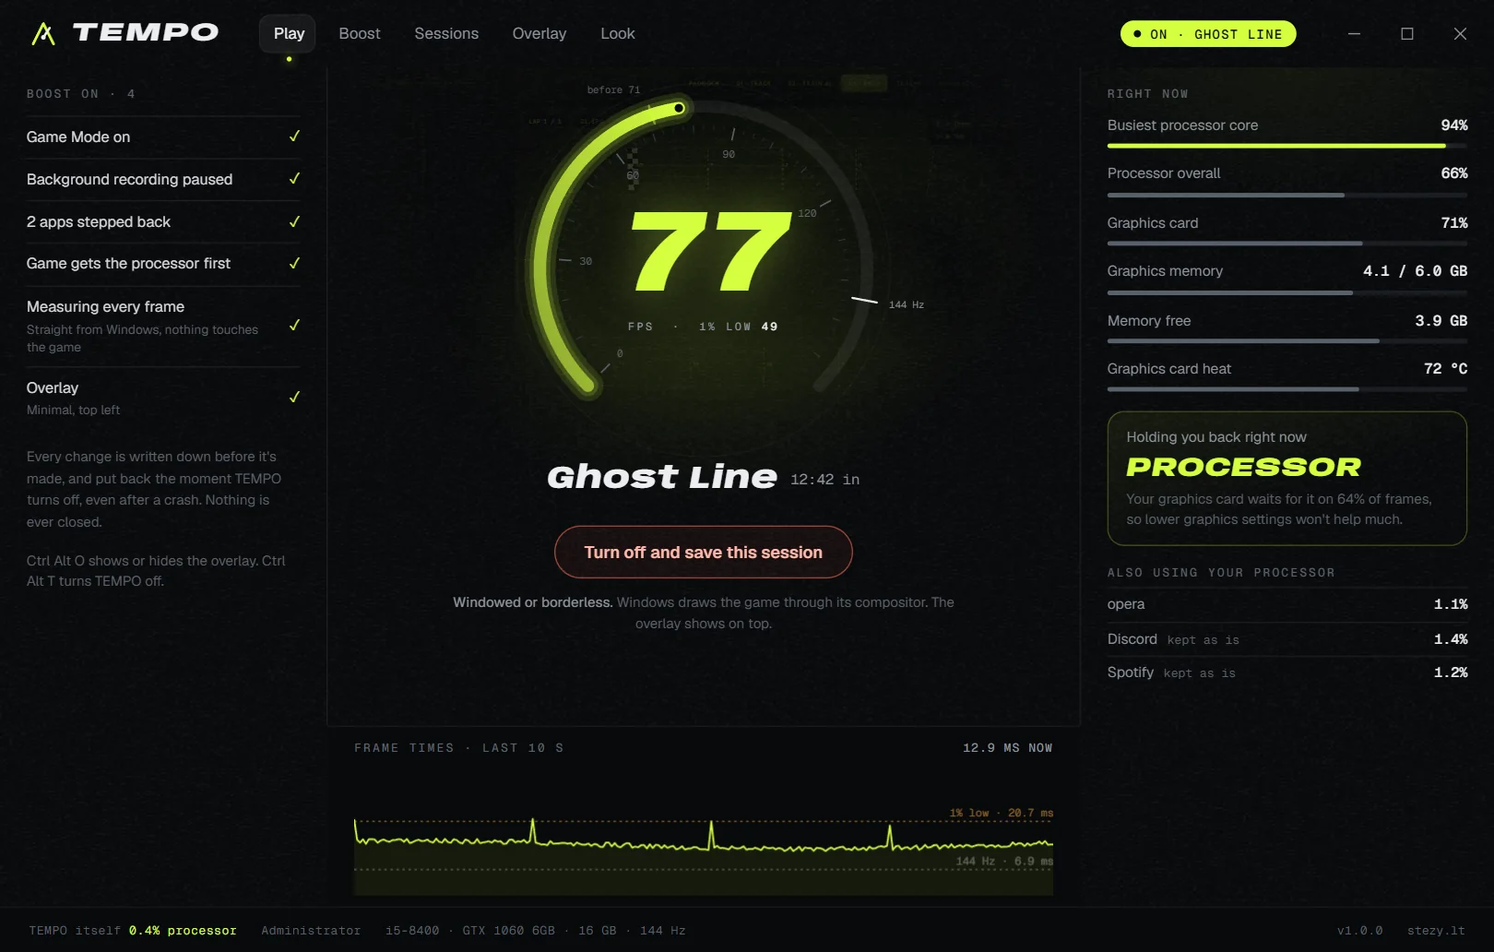
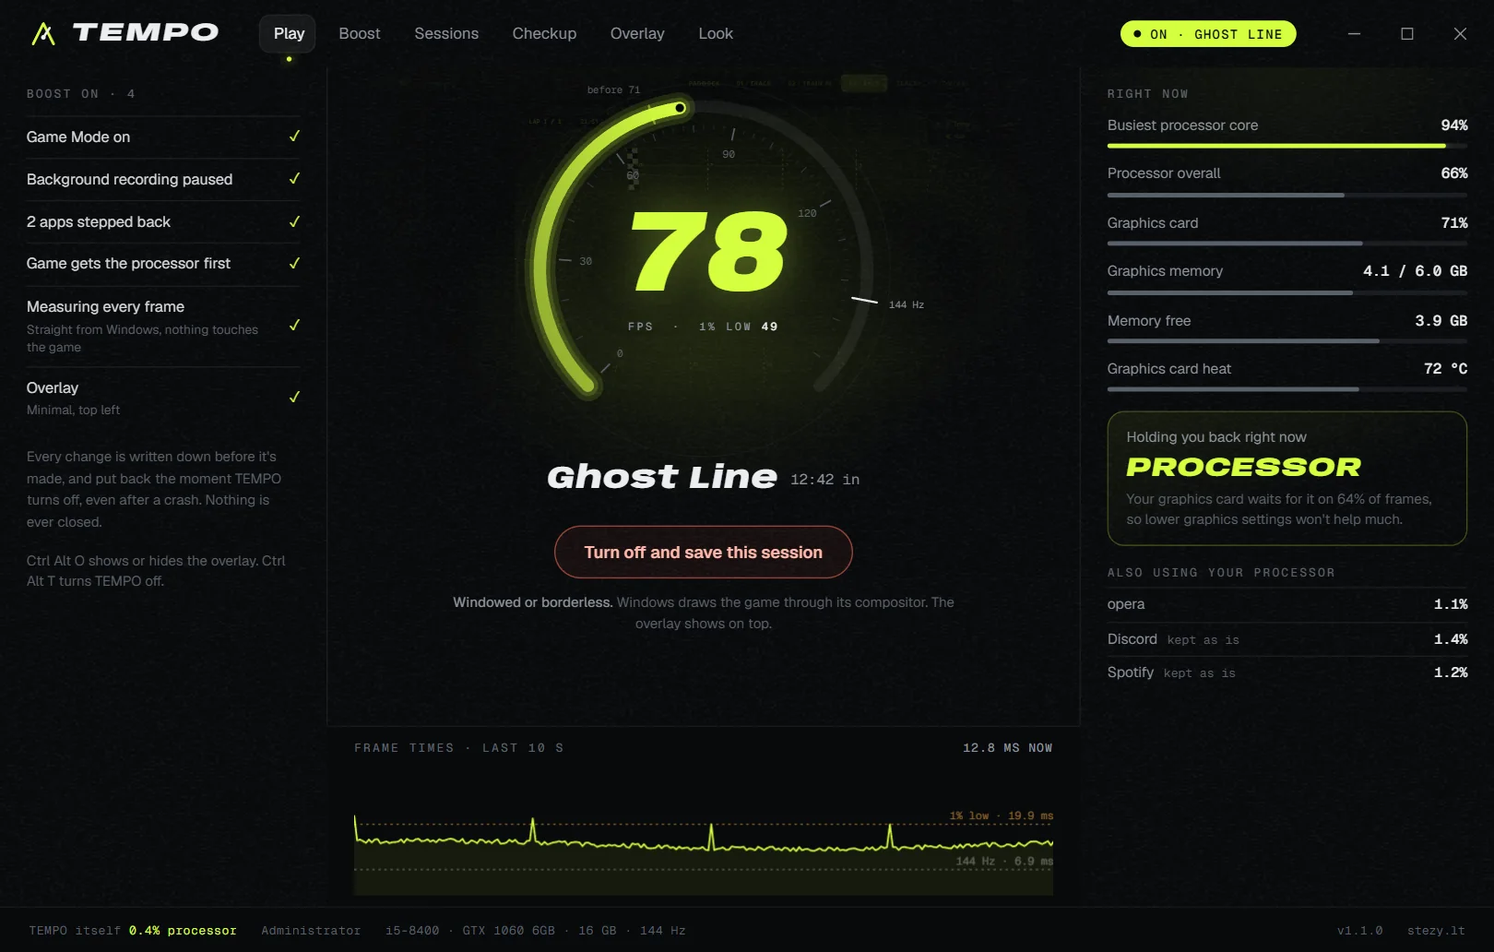
TEMPO 1.1 on the site: new download, Checkup screenshot, updated steps and demo

diff --git a/prototype/play/tempo/app.js b/prototype/play/tempo/app.js
@@ -185,7 +185,8 @@
     S.page = page;
     body.dataset.page = page;
     document.querySelectorAll('.nav button').forEach(b => b.classList.toggle('on', b.dataset.go === page));
-    for (const p of ['play', 'boost', 'sessions', 'overlay', 'look']) $('page-' + p).hidden = p !== page;
+    for (const p of ['play', 'boost', 'sessions', 'checkup', 'overlay', 'look']) $('page-' + p).hidden = p !== page;
+    if (page === 'checkup') { renderCheckup(); send({ t: 'checkup' }); }
     movePill();
     if (page === 'boost') { renderBoost(); send({ t: 'apps' }); }
     if (page === 'sessions') renderSessions();
@@ -270,6 +271,8 @@
     $('left-off').hidden = st !== 'off';
     $('left-on').hidden = st === 'off';
     $('learn').hidden = st !== 'off' || !boostCount();
+    $('play').hidden = st !== 'off' || !(g && g.canLaunch);
+    if (g && g.canLaunch) $('play').innerHTML = `<svg width="10" height="12" viewBox="0 0 10 12" aria-hidden="true"><path d="M0 0L10 6L0 12Z" fill="currentColor"/></svg>Turn on and open ${esc(g.name)}`;
     const applied = S.st.applied || [];
     $('applied-lab').textContent = S.st.learn ? 'Measuring only' : applied.length ? `Boost on · ${applied.length}` : 'Boost on';
     $('applied').innerHTML = S.st.learn
@@ -296,6 +299,8 @@
   });
   $('power').addEventListener('click', () => send({ t: 'on', game: S.settings.selectedGame || 'any' }));
   $('learn').addEventListener('click', () => send({ t: 'on', game: S.settings.selectedGame || 'any', learn: true }));
+  $('play').addEventListener('click', () => send({ t: 'on', game: S.settings.selectedGame || 'any', launch: true }));
+  $('update').addEventListener('click', () => send({ t: 'open', url: $('update').dataset.url }));
   $('stop').addEventListener('click', () => send({ t: 'off' }));
 
   function blockedText(g) {
@@ -353,14 +358,14 @@
     box.innerHTML = `
       <div class="lab">Last session <b>${when(s.started)} · ${dur(s.seconds)}</b></div>
       <div class="avg"><span class="n">${fmt(s.avgFps)}</span><span class="u">FPS AVERAGE</span>${delta != null ? `<span class="delta${delta < 0 ? ' neg' : ''}">${delta >= 0 ? '+' : ''}${delta} vs before</span>` : ''}</div>
-      <div class="trio"><div><div class="k">1% LOW</div><div class="v">${fmt(s.low1)}</div></div><div><div class="k">0.1% LOW</div><div class="v">${fmt(s.low01)}</div></div><div><div class="k">FRAME</div><div class="v">${fmt(s.avgFrameMs, 1)}<small>ms</small></div></div></div>
+      <div class="trio"><div><div class="k">1% LOW</div><div class="v">${fmt(s.low1)}</div></div><div><div class="k">0.1% LOW</div><div class="v">${fmt(s.low01)}</div></div><div><div class="k">STUTTERS</div><div class="v">${s.hitches != null ? s.hitches : '–'}${s.hitches != null ? `<small>${fmt(s.hitchesPerMin, 1)}/min</small>` : ''}</div></div></div>
       <canvas class="chart" id="last-chart"></canvas>
       <div class="axis"><span>0</span><span>${dur(s.seconds / 2)}</span><span>${dur(s.seconds)}</span></div>
       <div class="lab" style="margin-bottom:0">What held you back</div>
       ${lbar(s)}
       ${compareHtml(g && g.id)}
       ${tips(s).slice(0, 2).map(t => `<p class="facts" style="margin-bottom:8px">${t}</p>`).join('')}`;
-    drawSeries($('last-chart'), s.series, prev && prev.series);
+    drawSeries($('last-chart'), s.series, prev && prev.series, s);
   }
 
   // boosted sessions against plain ones for the same game, weighted by how long each was played
@@ -381,13 +386,27 @@
       <p class="note" style="margin-top:6px">${c.n1} boosted and ${c.n0} plain session${c.n0 === 1 ? '' : 's'}. Matches differ, so this gets more reliable the more you play.</p></div>`;
   }
 
-  function drawSeries(c, series, before) {
+  // Fullscreen fast path against windowed or borderless, from the user's own sessions of this game
+  function modeCompareHtml(gameId) {
+    const list = sessionsOf(gameId);
+    const fast = list.filter(s => /^Hardware: /.test(s.presentMode || '')), comp = list.filter(s => /Composed/.test(s.presentMode || ''));
+    if (!fast.length || !comp.length) return '';
+    const w = (arr, k) => arr.reduce((a, s) => a + s[k] * s.seconds, 0) / Math.max(1, arr.reduce((a, s) => a + s.seconds, 0));
+    const d = w(comp, 'avgFps') - w(fast, 'avgFps'), dl = w(comp, 'low1') - w(fast, 'low1');
+    const sign = v => (v >= 0 ? '+' : '') + v.toFixed(1);
+    return `<div class="cmp"><div class="lab" style="margin:0 0 6px">Borderless against fullscreen</div>
+      <div class="cmp-row"><span><b>${sign(d)}</b> fps average</span><span><b>${sign(dl)}</b> at the 1% lows</span></div>
+      <p class="note" style="margin-top:6px">${comp.length} windowed or borderless and ${fast.length} fullscreen session${fast.length === 1 ? '' : 's'}. Near zero means borderless costs you nothing, and the fps counter can sit on top.</p></div>`;
+  }
+
+  function drawSeries(c, series, before, sess) {
     if (!c || !series || series.length < 2) return;
+    const low = sess && sess.seriesLow && sess.seriesLow.length === series.length ? sess.seriesLow : null;
     const dpr = window.devicePixelRatio || 1, w = c.clientWidth, h = c.clientHeight;
     c.width = w * dpr; c.height = h * dpr;
     const g = c.getContext('2d');
     g.scale(dpr, dpr);
-    const all = series.concat(before || []);
+    const all = series.concat(before || []).concat(low || []);
     const lo = Math.max(0, Math.min(...all) * 0.85), hi = Math.max(...all) * 1.08;
     const y = v => h - 3 - (v - lo) / (hi - lo || 1) * (h - 8);
     const line = (arr, color, width, dash, fill) => {
@@ -399,7 +418,17 @@
     };
     const rgb = getComputedStyle(document.documentElement).getPropertyValue('--acc-rgb');
     if (before && before.length > 1) line(before, '#3A4048', 1.3, [3, 2]);
+    if (low) line(low, `rgba(${rgb}, .32)`, 1, null);
     line(series, S.settings.accent, 1.6, null, `rgba(${rgb}, .08)`);
+    // the worst stutters, as small marks along the bottom
+    if (sess && sess.worstHitches && sess.seconds) {
+      g.setLineDash([]);
+      g.fillStyle = '#FFB547';
+      for (const ht of sess.worstHitches) {
+        const x = Math.min(w - 2, Math.max(2, ht.t / sess.seconds * w));
+        g.beginPath(); g.moveTo(x, h - 0); g.lineTo(x - 3.5, h - 6); g.lineTo(x + 3.5, h - 6); g.closePath(); g.fill();
+      }
+    }
   }
 
   // ------------------------------------------------------------------ live
@@ -517,17 +546,19 @@
         <div><div class="k">AVERAGE</div><div class="v">${fmt(s.avgFps)}<small>fps</small></div></div>
         <div><div class="k">1% LOW</div><div class="v">${fmt(s.low1)}<small>fps</small></div></div>
         <div><div class="k">0.1% LOW</div><div class="v">${fmt(s.low01)}<small>fps</small></div></div>
-        <div><div class="k">FRAME TIME</div><div class="v">${fmt(s.avgFrameMs, 1)}<small>ms</small></div></div>
+        <div><div class="k">STUTTERS</div><div class="v">${s.hitches != null ? s.hitches : '–'}<small>${s.hitches != null ? fmt(s.hitchesPerMin, 1) + '/min' : ''}</small></div></div>
       </div>
       <canvas class="sd-chart" id="sd-chart"></canvas>
       <div class="axis"><span>0</span><span>${dur(s.seconds / 2)}</span><span>${dur(s.seconds)}</span></div>
-      ${prev ? `<p class="facts" style="margin-bottom:12px">Dashed line: the session before (${fmt(prev.avgFps)} fps average).</p>` : ''}
+      <p class="facts" style="margin-bottom:12px">${s.seriesLow ? 'The faint line is the slowest moment of each stretch, the dips you feel.' : ''}${s.worstHitches && s.worstHitches.length ? ' Orange marks are the worst stutters.' : ''}${prev ? ` Dashed: the session before (${fmt(prev.avgFps)} fps average).` : ''}</p>
+      ${s.worstHitches && s.worstHitches.length ? `<div class="lab" style="margin-bottom:6px">Worst stutters</div><div class="hitches">${s.worstHitches.map(h => `<span><b>${Math.round(h.ms)} ms</b> at ${Math.floor(h.t / 60)}:${String(Math.floor(h.t % 60)).padStart(2, '0')}</span>`).join('')}</div>` : ''}
       <div class="lab" style="margin-bottom:0">What held you back</div>
       ${lbar(s)}
       <div class="sd-cols">
         <div>
           ${s.changes && s.changes.length ? `<div class="lab">The boost this session</div>${s.changes.map(c => `<p class="facts">&#10003; ${esc(c)}</p>`).join('')}<div style="height:16px"></div>` : `<div class="lab">The boost this session</div><p class="facts" style="margin-bottom:16px">Off. A plain session, useful as a baseline.</p>`}
           ${compareHtml(s.gameId)}
+          ${modeCompareHtml(s.gameId)}
           <div class="lab">Worth knowing</div>
           ${tips(s).map(t => `<p class="facts" style="margin-bottom:9px">${t}</p>`).join('') || '<p class="facts">Nothing stood out. A clean session.</p>'}
           ${mo ? `<p class="facts" style="margin-top:6px"><b>${mo[1]}.</b> ${mo[2]}</p>` : ''}
@@ -542,7 +573,7 @@
           ${s.background && s.background.length ? `<div class="lab" style="margin-top:16px">Other apps using the processor</div><div class="bg-apps" style="margin-top:0">` + s.background.map(b => `<div class="row${(S.settings.protectedApps || []).some(p => p.toLowerCase() === b.name.toLowerCase()) ? ' kept' : ''}"><span>${esc(b.name.replace(/\.exe$/i, ''))}</span><b>${fmt(b.cpu, 1)}%</b></div>`).join('') + '</div>' : ''}
         </div>
       </div>`;
-    drawSeries($('sd-chart'), s.series, prev && prev.series);
+    drawSeries($('sd-chart'), s.series, prev && prev.series, s);
     $('sd-del').addEventListener('click', () => {
       if ($('sd-del').dataset.armed) { send({ t: 'deleteSession', game: s.gameId, id: s.id }); return; }
       $('sd-del').dataset.armed = '1';
@@ -586,6 +617,26 @@
     r.addEventListener('input', () => { paintRange(r); S.settings[r.dataset.set] = r.value / (+r.dataset.scale || 1); if (r.dataset.set === 'grain') applyTheme(); if (S.page === 'overlay') renderOverlaySample(); });
     r.addEventListener('change', () => set(r.dataset.set, r.value / (+r.dataset.scale || 1)));
   });
+
+  // checkup page: the PC's own findings plus what the sessions showed
+  function renderCheckup() {
+    if (S.page !== 'checkup') return;
+    const items = (S.checkup || []).slice();
+    const last = S.sessions[0];
+    if (last) {
+      if (last.maxGpuTemp >= 83) items.push({ level: 'tip', title: `Your graphics card reached ${fmt(last.maxGpuTemp)} °C in ${esc(last.gameName)}`, text: 'Most cards slow themselves down above about 83 °C. Dust in the fans or a slow fan curve are the usual reasons.' });
+      else if (last.maxGpuTemp > 0) items.push({ level: 'ok', title: `Graphics card heat: ${fmt(last.maxGpuTemp)} °C at the peak`, text: `Cool enough in your last ${esc(last.gameName)} session.` });
+      if (last.vramTotalGb > 0 && last.avgVramGb / last.vramTotalGb > 0.9) items.push({ level: 'tip', title: 'Graphics memory was nearly full', text: `${fmt(last.avgVramGb, 1)} of ${fmt(last.vramTotalGb, 0)} GB on average. Lower texture quality is the setting that frees it, and stops the stutters a full card causes.` });
+      if (last.hitchesPerMin >= 2) items.push({ level: 'tip', title: `${fmt(last.hitchesPerMin, 1)} stutters a minute in ${esc(last.gameName)}`, text: 'Stutters usually come from loading (a slow or full drive), memory running out, or shaders compiling the first time you see something. They often settle after a few matches.' });
+    } else items.push({ level: 'info', title: 'Play a session with TEMPO on', text: 'Heat, memory and stutters from your games show up here too.' });
+    const st = S.boostStatus || {};
+    if (st.gameMode === false) items.push({ level: 'info', title: 'Windows Game Mode is off', text: "TEMPO's boost turns it on while you play and back off afterwards." });
+    const order = { warn: 0, tip: 1, info: 2, ok: 3 };
+    items.sort((a, b) => order[a.level] - order[b.level]);
+    const icon = l => l === 'ok' ? '&#10003;' : l === 'warn' ? '!' : l === 'tip' ? '&#8599;' : 'i';
+    $('ckp-list').innerHTML = S.checkup == null ? '<p class="note">Looking at your PC…</p>' : items.map(f =>
+      `<div class="find ${f.level}"><span class="ic">${icon(f.level)}</span><div><div class="t">${f.title}</div><p>${f.text}</p></div></div>`).join('');
+  }
 
   // boost page
   function renderBoost() {
@@ -744,6 +795,8 @@
       case 'games': S.games = m.games; if (m.select) S.settings.selectedGame = m.select; renderPlay(); break;
       case 'settings': S.settings = m.settings; applyTheme(); syncControls(); renderPlay(); if (S.page === 'overlay') renderOverlaySample(); break;
       case 'toast': toast(m.text); break;
+      case 'checkup': S.checkup = (m.findings || []).map(f => ({ level: f.level, title: esc(f.title), text: esc(f.text) })); S.boostStatus = m.boostStatus || S.boostStatus; renderCheckup(); break;
+      case 'update': { const u = $('update'); u.hidden = false; u.dataset.url = m.url; u.textContent = `Update ${m.version}`; break; }
       case 'apps': S.apps = m.apps; S.boostStatus = m.boostStatus || S.boostStatus; renderBoost(); break;
     }
   }

diff --git a/prototype/play/tempo/app.css b/prototype/play/tempo/app.css
@@ -191,6 +191,30 @@ button.chip:hover { border-color: var(--muted); color: var(--ink); }
 .strip { position: absolute; left: 272px; right: 344px; bottom: 0; height: 150px; border-top: 1px solid var(--line); padding: 12px 22px 10px; background: var(--bg); }
 .strip canvas { width: 100%; height: 104px; display: block; }
 
+/* ---------------- play: open the game too ---------------- */
+.play-btn { margin-top: 14px; display: inline-flex; align-items: center; gap: 9px; height: 36px; padding: 0 16px; border-radius: 18px; font-size: 12.5px; font-weight: 600; color: var(--acc); box-shadow: inset 0 0 0 1px rgba(var(--acc-rgb), .45); background: rgba(var(--acc-rgb), .06); position: relative; transition: background-color .15s; }
+.play-btn:hover { background: rgba(var(--acc-rgb), .14); }
+.play-btn + .quiet { margin-top: 10px; }
+.update { font: 500 10.5px/1 var(--mono); letter-spacing: .08em; text-transform: uppercase; padding: 6px 11px; border-radius: 20px; color: var(--acc); box-shadow: inset 0 0 0 1px rgba(var(--acc-rgb), .55); app-region: no-drag; -webkit-app-region: no-drag; }
+.update:hover { background: rgba(var(--acc-rgb), .1); }
+.hitches { display: flex; flex-wrap: wrap; gap: 6px 14px; margin-bottom: 16px; font: 11px var(--mono); color: var(--muted); }
+.hitches b { color: #FFB547; font-weight: 500; }
+
+/* ---------------- checkup ---------------- */
+.ckp { height: 100%; overflow-y: auto; padding: 24px 32px; display: grid; grid-template-columns: 360px minmax(0, 1fr); gap: 40px; align-content: start; }
+.ckp-list { display: flex; flex-direction: column; gap: 8px; padding-top: 4px; }
+.find { display: grid; grid-template-columns: 30px 1fr; gap: 12px; padding: 14px 16px; border-radius: 14px; border: 1px solid var(--line); background: rgba(255,255,255,.012); }
+.find .ic { width: 26px; height: 26px; border-radius: 50%; display: grid; place-items: center; font: 600 12px var(--mono); }
+.find .t { font-weight: 600; font-size: 13.5px; }
+.find p { font-size: 12px; color: var(--muted); margin-top: 4px; line-height: 1.5; }
+.find.ok .ic { color: var(--acc); background: rgba(var(--acc-rgb), .1); }
+.find.ok .t { color: #D5D8DC; font-weight: 500; }
+.find.tip { border-color: rgba(var(--acc-rgb), .3); }
+.find.tip .ic { color: var(--acc-ink); background: var(--acc); }
+.find.warn { border-color: rgba(255, 181, 71, .45); background: rgba(255, 181, 71, .04); }
+.find.warn .ic { color: #1C1203; background: #FFB547; }
+.find.info .ic { color: var(--muted); background: rgba(255,255,255,.06); }
+
 /* ---------------- boost ---------------- */
 .bst { display: grid; grid-template-columns: 560px minmax(0, 1fr); height: 100%; }
 .st-chip { font: 500 10px var(--mono); color: var(--faint); border: 1px solid var(--line2); border-radius: 9px; padding: 2px 7px; white-space: nowrap; margin-left: auto; }
@@ -208,7 +232,8 @@ button.chip:hover { border-color: var(--muted); color: var(--ink); }
 .app.lock .pick { color: var(--muted); }
 .app.lock .pick::before { content: "🔒 "; filter: grayscale(1); }
 .cmp { margin: 14px 0 16px; padding: 12px 14px; border-radius: 12px; border: 1px solid rgba(var(--acc-rgb), .25); background: linear-gradient(160deg, rgba(var(--acc-rgb), .07), transparent 70%); }
-.cmp-row { display: flex; gap: 22px; font-size: 13px; color: var(--muted); }
+.cmp-row { display: flex; flex-wrap: wrap; gap: 4px 22px; font-size: 13px; color: var(--muted); }
+.cmp-row span { white-space: nowrap; }
 .cmp-row b { font: italic 800 22px var(--display); color: var(--acc); margin-right: 4px; }
 .compare:empty { display: none; }
 .sess-item .tag { font: 500 9px var(--mono); letter-spacing: .1em; font-style: normal; color: var(--faint); border: 1px solid var(--line2); border-radius: 6px; padding: 1px 5px; margin-left: 8px; vertical-align: 2px; }

diff --git a/prototype/play/tempo/mock.js b/prototype/play/tempo/mock.js
@@ -27,14 +27,17 @@
     frames: Math.round(avg * mins * 60), avgFps: avg, low1, low01, avgFrameMs: Math.round(10000 / avg) / 10, cpuLimited: cpu, gpuLimited: gpu, capped: cap,
     presentMode: 'Composed: Flip', avgGpu: 71, maxGpuTemp: 74, avgCpuMaxCore: 91, minRamFreeGb: 2.8, avgRamFreeGb: 4.1, avgVramGb: 4.6, vramTotalGb: 6, tempoCpu: 0.4,
     background: bg, backgroundCpu: bg.reduce((a, b) => a + b.cpu, 0), series: series(220, avg, avg * .14), changes, overlayBlocked: false,
+    hitches: Math.round(mins * 0.6), hitchesPerMin: 0.6, worstHitches: [{ t: mins * 9, ms: 74 }, { t: mins * 23, ms: 61 }, { t: mins * 41, ms: 88 }],
   });
   const bgApps = [{ pid: 0, name: 'opera.exe', cpu: 3.1 }, { pid: 0, name: 'Discord.exe', cpu: 1.4 }, { pid: 0, name: 'Spotify.exe', cpu: 1.2 }];
   const boostList = ['Game Mode on', 'Background recording paused', '2 apps stepped back', 'Game gets the processor first'];
+  const withLow = s => { s.seriesLow = s.series.map(v => Math.round(v * (0.62 + rnd() * 0.18) * 10) / 10); return s; };
   const sessions = q.get('empty') ? [] : [
     mk('20261011-2114', 1.5, 31, 71.2, 47.3, 33.1, .62, .33, .05, bgApps, boostList),
     mk('20261010-1902', 26, 44, 66.4, 41.0, 28.6, .70, .26, .04, bgApps.concat([{ pid: 0, name: 'OneDrive.exe', cpu: 1.1 }]), []),
     mk('20261009-2040', 49, 38, 65.8, 39.5, 26.2, .71, .25, .04, bgApps, []),
-  ];
+  ].map(withLow);
+  games.forEach(g => { g.canLaunch = true; });
   const settings = {
     accent: q.get('acc') || '#D4FF3F', background: 'graphite', artBehindDial: true, artStyle: q.get('art') || 'tinted', grain: .35, motion: 'full',
     overlay: true, overlayStyle: q.get('ov') || 'minimal', overlayBox: +(q.get('box') || 0), overlaySize: 1, overlayCorner: 'tl', overlayNumbers: 'accent',
@@ -82,6 +85,12 @@
       setState('off');
     }
     if (m.t === 'apps') deliver({ t: 'apps', apps, boostStatus });
+    if (m.t === 'checkup') setTimeout(() => deliver({ t: 'checkup', boostStatus, findings: [
+      { id: 'refresh-1', level: 'ok', title: 'Your screen runs at its full 144 Hz', text: '1920 × 1080, as fast as it goes.' },
+      { id: 'ram-channel', level: 'tip', title: 'One memory stick: 16 GB in single channel', text: 'With one stick the processor gets its data at half the speed it could. In processor-heavy games a second matching stick (same size and speed) is often worth 10 to 30% more fps. Your PC has 2 slots.' },
+      { id: 'driver', level: 'ok', title: 'Graphics driver from June 2026', text: 'NVIDIA GeForce GTX 1060 6GB is up to date enough.' },
+      { id: 'disk', level: 'tip', title: 'C: is nearly full: 21 GB free', text: 'Games load and stream textures from it. A nearly full drive gets slower and games can stutter while loading.' },
+      { id: 'windowed', level: 'ok', title: 'Optimizations for windowed games are on', text: 'Borderless games get the same fast path as fullscreen.' }] }), 500);
     if (m.t === 'select') settings.selectedGame = m.game;
     if (m.t === 'open' && site) window.open(m.url, '_blank', 'noopener');
     if (m.t === 'addGame' && site) deliver({ t: 'toast', text: 'In the real TEMPO this opens a file picker for any game\'s .exe.' });

diff --git a/prototype/play/tempo/index.html b/prototype/play/tempo/index.html
@@ -28,7 +28,7 @@
   .demo-dl:hover { filter: brightness(1.08); }
   @media (max-width: 1240px) { .demo-tag { display: none; } }
 </style>
-<script>window.TEMPO_DEMO = { art: '/img/', version: '1.0.0' };</script>
+<script>window.TEMPO_DEMO = { art: '/img/', version: '1.1.0' };</script>
 <link rel="stylesheet" href="app.css">
 </head>
 <body data-page="play" data-state="off">
@@ -44,12 +44,14 @@
       <button type="button" data-go="play" class="on">Play</button>
       <button type="button" data-go="boost">Boost</button>
       <button type="button" data-go="sessions">Sessions</button>
+      <button type="button" data-go="checkup">Checkup</button>
       <button type="button" data-go="overlay">Overlay</button>
       <button type="button" data-go="look">Look</button>
     </nav>
     <span class="sp"></span>
+    <button type="button" class="update" id="update" hidden></button>
     <span class="status" id="status" hidden><i></i><span id="status-text"></span></span>
-    <div class="demo-bar"><span class="demo-tag">Live demo · made-up data</span><a class="demo-back" href="/#tempo">stezy.lt</a><a class="demo-dl" href="https://github.com/SNAXUS1/stezy-site/releases/download/tempo-v1.0.0/TEMPO-1.0.0.zip">Download</a></div>
+    <div class="demo-bar"><span class="demo-tag">Live demo · made-up data</span><a class="demo-back" href="/#tempo">stezy.lt</a><a class="demo-dl" href="https://github.com/SNAXUS1/stezy-site/releases/download/tempo-v1.1.0/TEMPO-1.1.0.zip">Download</a></div>
     <div class="winbtns">
       <button type="button" class="win" data-win="min" aria-label="Minimise"><svg width="10" height="10" viewBox="0 0 10 10"><path d="M0 5h10" stroke="currentColor" stroke-width="1.1"/></svg></button>
       <button type="button" class="win" data-win="max" aria-label="Maximise"><svg width="10" height="10" viewBox="0 0 10 10"><rect x=".5" y=".5" width="9" height="9" fill="none" stroke="currentColor" stroke-width="1.1"/></svg></button>
@@ -87,6 +89,7 @@
           </div>
           <div class="title-row" id="title-row"></div>
           <div class="chips" id="chips"></div>
+          <button type="button" class="play-btn" id="play" hidden></button>
           <button type="button" class="quiet" id="learn" hidden>Measure only, without the boost</button>
           <button type="button" class="stop" id="stop" hidden>Turn off</button>
           <p class="mode-note" id="mode-note" hidden></p>
@@ -140,6 +143,17 @@
           <div id="sess-list"></div>
         </div>
         <div class="sess-detail" id="sess-detail"></div>
+      </div>
+    </section>
+
+    <!-- ======================= CHECKUP ======================= -->
+    <section class="page" id="page-checkup" hidden>
+      <div class="ckp">
+        <div class="ckp-head">
+          <div class="h2">CHECKUP</div>
+          <p class="lead">The things that quietly cost fps on a gaming PC, checked on yours. TEMPO only looks here; nothing is changed.</p>
+        </div>
+        <div class="ckp-list" id="ckp-list"></div>
       </div>
     </section>
 

diff --git a/prototype/index.html b/prototype/index.html
@@ -1494,14 +1494,14 @@
       version: '0.6.0', size: '75 MB', updated: '15 Sep 2026', web: false
     },
     {
[2 lines of base64/hex data omitted]
       title: 't-tempo', layout: 'at-right', page: '#08090B', accent: '#D4FF3F',
       font: "'Anybody', sans-serif", titleCss: 'font-style:italic;font-weight:900;font-stretch:150%;letter-spacing:0.04em;',
       blurb: 'Game performance, measured properly: a boost that gives your game the PC, your own fps counter, and honest reports.',
       lede: "Pick a game, turn TEMPO on, open the game. While it's on, your PC leans towards the game: the apps you choose step back (never closed, and music and voice are never touched), the game gets the processor first, and Windows' Game Mode and high performance power switch on. Your fps sits on top in a counter you style yourself, and afterwards you get the real numbers: your average, the dips you feel, and whether the processor or the graphics card held you back. Turn it off and every change goes back, even after a crash. Nothing is injected into games: TEMPO reads Windows' own frame timing.",
-      how: ["Download the zip, unzip it and open TEMPO.exe. It asks for administrator rights to read Windows' frame timing.", 'Pick your game, press Turn on (or Ctrl+Alt+T), then open the game.', 'Close the game and your report is on the Sessions page. The Boost page shows exactly what changes, and any of it can be switched off.'],
-      shots: ['img/tempo/live.webp', 'img/tempo/boost.webp', 'img/tempo/sessions.webp'],
-      version: '1.0.0', size: '45 MB', updated: '11 Oct 2026', web: false,
+      how: ["Download the zip, unzip it and open TEMPO.exe. It asks for administrator rights to read Windows' frame timing.", 'Pick your game and press Turn on and open, or turn TEMPO on (Ctrl+Alt+T) and open the game yourself.', 'Close the game and your report is on the Sessions page: your average, the dips, the stutters and what held you back.', 'Checkup looks over your PC for the things that quietly cost fps. The Boost page shows exactly what changes, and any of it can be switched off.'],
+      shots: ['img/tempo/live.webp', 'img/tempo/boost.webp', 'img/tempo/sessions.webp', 'img/tempo/checkup.webp'],
+      version: '1.1.0', size: '43 MB', updated: '11 Oct 2026', web: false,
       sparks: []
     },
     {
